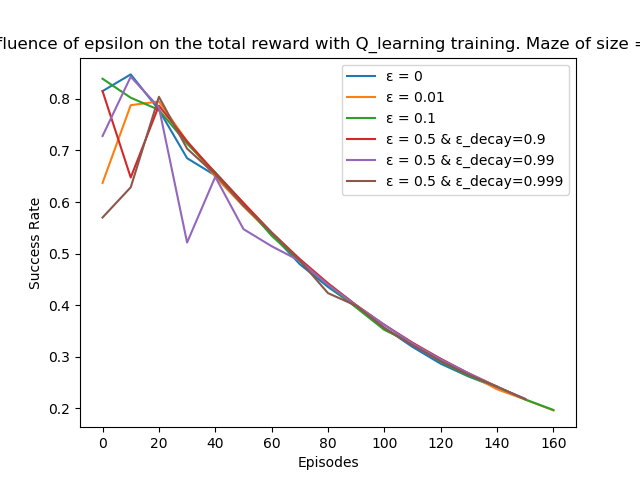
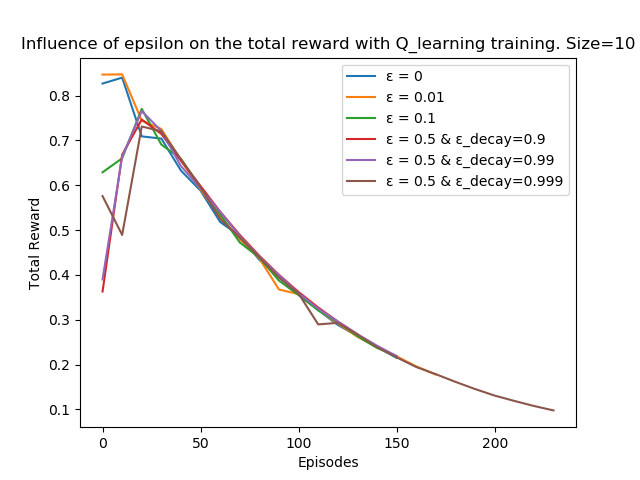
Update influence_epsilon.py and new graphs

diff --git a/compareRL_Algos.py b/compareRL_Algos.py
@@ -231,10 +231,10 @@ def simulation(size_maze, RL_ALGO, EXPLORE_METHOD, eps_decay, seed):
 
 
 if __name__ == "__main__":
-    if ((len(sys.argv) < 5) or ((int(sys.argv[1]) != 10) and (int(sys.argv[1]) != 20))):
+    if ((len(sys.argv) < 5) or ((int(sys.argv[1]) != 10) and (int(sys.argv[1]) != 20)  and (int(sys.argv[1]) != 50))):
         print("The correct syntax is : \n")
         print("python compareRL_Algos.py size_maze exploration eps_decay seed\n")
-        print("where     size_maze is either 10 or 20")
+        print("where     size_maze is either 10 or 20 or 50")
         print("          exploration denotes the exploration either \"epsilon_greedy\" or \"softmax\" (the latter does not work for the moment...)")
         print("          if eps_decay>=0: eps<-eps*eps_decay ; otherwise, other update of eps")
         print("          seed initiates the random process deterministically")
@@ -253,17 +253,26 @@ if __name__ == "__main__":
     plt.plot(range(0,n_episode_S,10),sr_S[0::10], label=SARSA)
     plt.plot(range(0,n_episode_Q,10),sr_Q[0::10], label=Q_LEARNING)
     plt.title("Success rate in function of the episodes with size={0} and ε_decay={1}".format(size_maze, eps_decay))
+    plt.savefig("Simulations/compareRL_Algos/size{0}/{1}/figures/compareRL_Algos_successRate.png".format(size_maze, ALGO))
+    plt.xlabel("Episodes")
+    plt.ylabel("Success Rate")
     plt.legend()
     
     plt.figure(2)
     plt.plot(range(0,n_episode_S,10),tr_S[0::10], label=SARSA)
     plt.plot(range(0,n_episode_Q,10),tr_Q[0::10], label=Q_LEARNING)
     plt.title("Total reward in function of the episodes with size={0} and ε_decay={1}".format(size_maze, eps_decay))
+    plt.savefig("Simulations/compareRL_Algos/size{0}/{1}/figures/compareRL_Algos_totalReward.png".format(size_maze, ALGO))
+    plt.xlabel("Episodes")
+    plt.ylabel("Total Reward")
     plt.legend()
     
     plt.figure(3)
     plt.plot(range(0,n_episode_S,10),resolution_time_S[0::10], label=SARSA)
     plt.plot(range(0,n_episode_Q,10),resolution_time_Q[0::10], label=Q_LEARNING)
     plt.title("Resolution time in function of the episodes with size={0} and ε_decay={1}".format(size_maze, eps_decay))
+    plt.savefig("Simulations/compareRL_Algos/size{0}/{1}/figures/compareRL_Algos_resolutionTime.png".format(size_maze, ALGO))
+    plt.xlabel("Episodes")
+    plt.ylabel("Resolution Time")
     plt.legend()
     plt.show()

diff --git a/influence_epsilon.py b/influence_epsilon.py
@@ -303,7 +303,7 @@ if __name__ == "__main__":
     plt.plot(range(0,n_episode_4,10),sr_4[0::10], label=label4)
     plt.plot(range(0,n_episode_5,10),sr_5[0::10], label=label5)
     plt.plot(range(0,n_episode_6,10),sr_6[0::10], label=label6)
-    plt.title("Influence of epsilon on the success rate with {} training. Maze of size = {}".format(ALGO, size_maze))
+    plt.title("Influence of epsilon on the success rate with {} training. Size={}".format(ALGO, size_maze))
     plt.xlabel("Episodes")
     plt.ylabel("Success Rate")
     plt.legend()
@@ -317,9 +317,9 @@ if __name__ == "__main__":
     plt.plot(range(0,n_episode_4,10),tr_4[0::10], label=label4)
     plt.plot(range(0,n_episode_5,10),tr_5[0::10], label=label5)
     plt.plot(range(0,n_episode_6,10),tr_6[0::10], label=label6)
-    plt.title("Influence of epsilon on the total reward with {} training. Maze of size = {}".format(ALGO, size_maze))
+    plt.title("Influence of epsilon on the total reward with {} training. Size={}".format(ALGO, size_maze))
     plt.xlabel("Episodes")
-    plt.ylabel("Success Rate")
+    plt.ylabel("Total Reward")
     plt.legend()
     plt.savefig("Simulations/influence_epsilon/size{0}/{1}/figures/epsilon-influence_totalReward.png".format(size_maze, ALGO))
     
@@ -332,7 +332,7 @@ if __name__ == "__main__":
     plt.plot(range(0, n_episode_4, 10),resolution_time_4[0::10], label=label4)
     plt.plot(range(0, n_episode_5, 10),resolution_time_5[0::10], label=label5)
     plt.plot(range(0, n_episode_6, 10),resolution_time_6[0::10], label=label6)
-    plt.title("Influence of epsilon on the resolution time with {} training. Maze of size = {}".format(ALGO, size_maze))
+    plt.title("Influence of epsilon on the resolution time with {} training. Size={}".format(ALGO, size_maze))
     plt.xlabel("Episodes")
     plt.ylabel("Resolution Time")
     plt.legend()
